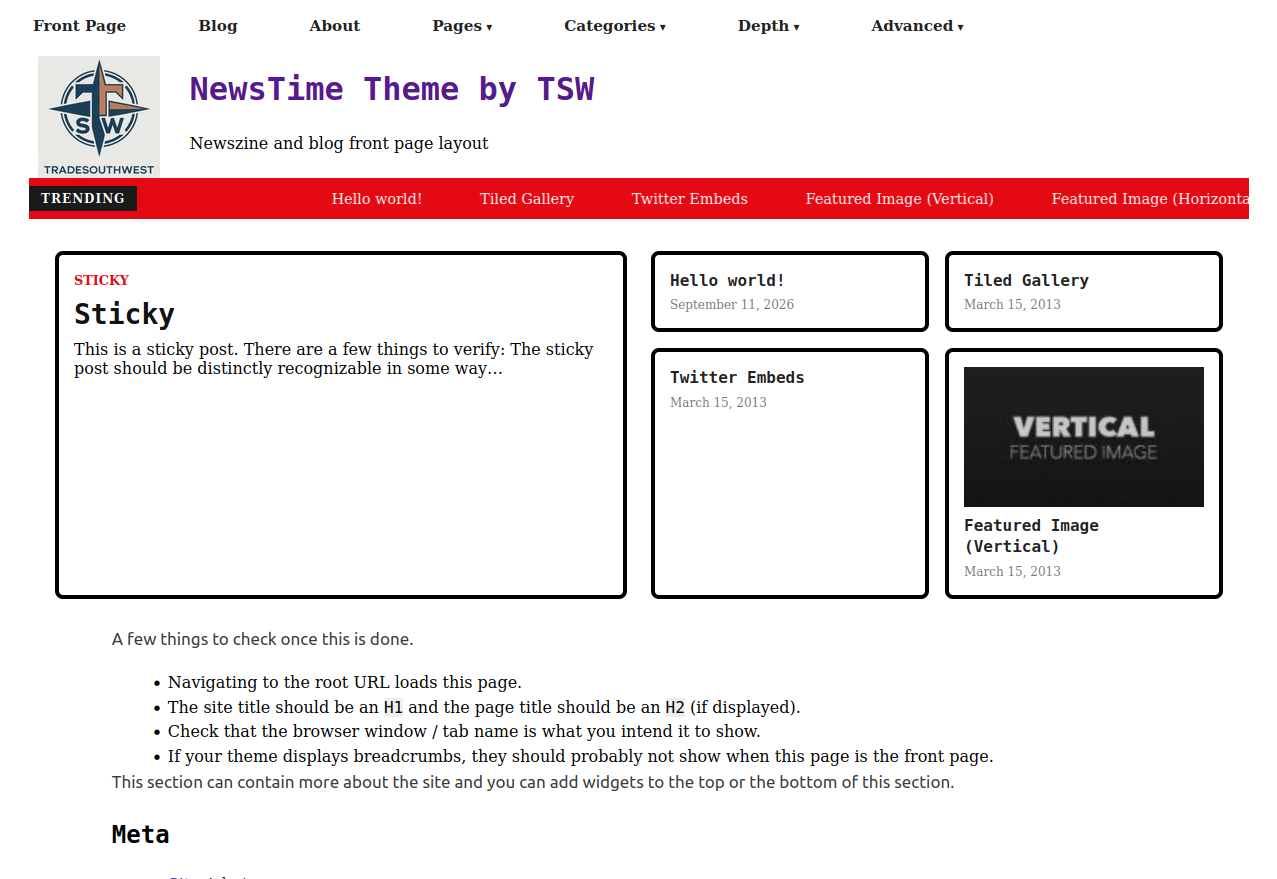
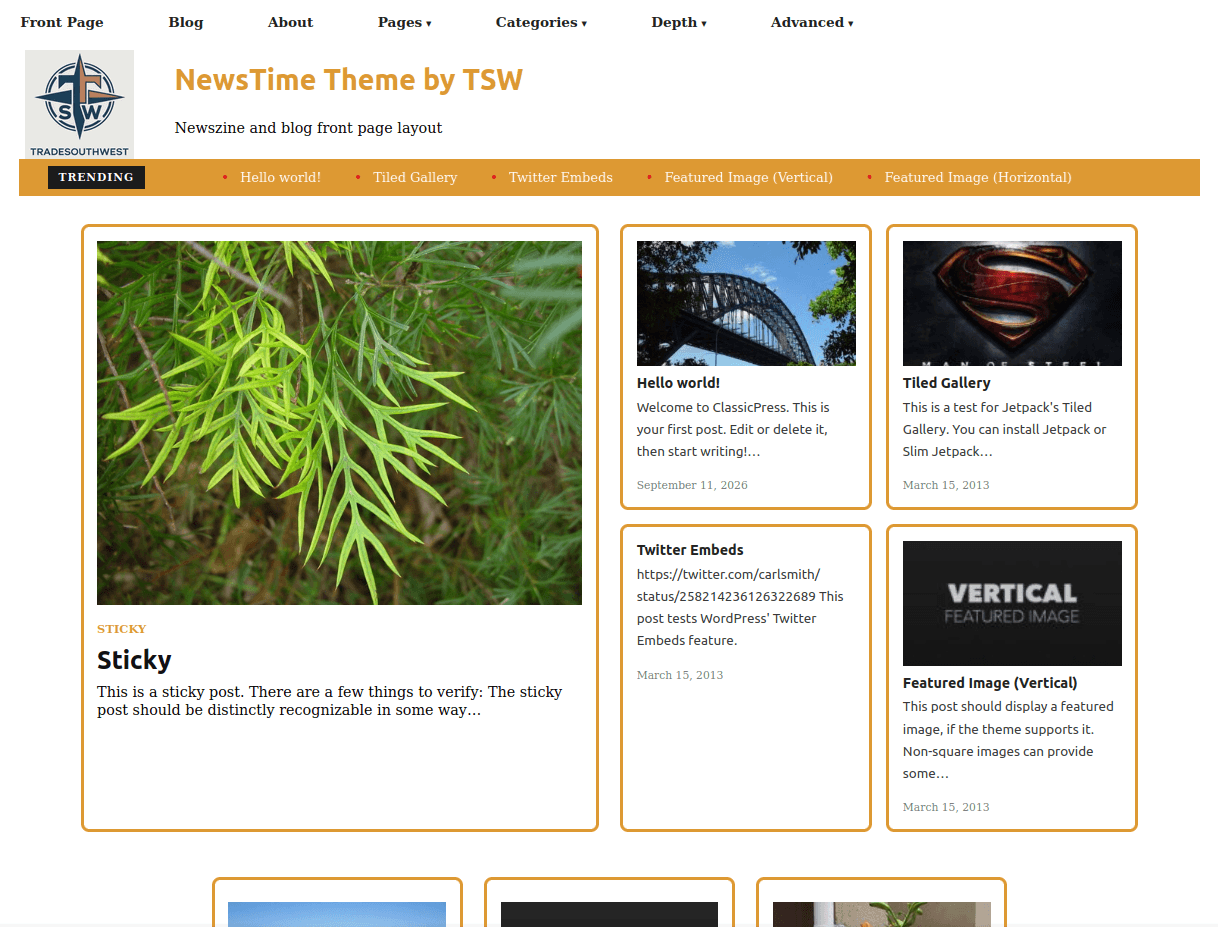
add customizer section for instructions

diff --git a/style.css b/style.css
@@ -58,13 +58,13 @@ NewsTime is distributed under the terms of the GNU GPL
     overflow-wrap: break-word;
     line-height: 1.8;
     margin-bottom: 1rem;
-    font-family: ui-monospace, 'Cascadia Code', 'Source Code Pro', Menlo, Consolas, 'DejaVu Sans Mono', monospace, monospace;
+    font-family:  Seravek, 'Gill Sans Nova', Ubuntu, Calibri, 'DejaVu Sans', source-sans-pro, sans-serif;
   }
   
   p, dl {
     font-family: Seravek, 'Gill Sans Nova', Ubuntu, Calibri, 'DejaVu Sans', source-sans-pro, sans-serif;
     font-weight: normal;
-    font-size: 17px;
+    font-size: 15px;
     line-height: 1.648;
     margin-bottom: 1em;
     color: #393a3b;
@@ -163,12 +163,11 @@ NewsTime is distributed under the terms of the GNU GPL
      2.0 - Layout & Structure
      ========================================================================== */
 /* Layout Base Containers */
-.newstime-front-page .container {
+.newstime-front-page .container{
 	max-width: 1200px;
 	margin: 0 auto;
 	padding: 0 1rem;
 }
-
 .page-header {
   display: block; 
   height: 180px;
@@ -225,6 +224,9 @@ NewsTime is distributed under the terms of the GNU GPL
   color: black;
 }
 
+.sticky {
+  font-family: sans-serif;
+}
 /* --------------------------------------------------------------------------
    1. News Ticker / Marquee
    -------------------------------------------------------------------------- */

diff --git a/includes/customizer.php b/includes/customizer.php
@@ -30,3 +30,65 @@ function newstime_customize_colors( $wp_customize ) {
 	);
 }
 add_action( 'customize_register', 'newstime_customize_colors' );
+
+/**
+ * Add Newstime Instructions and Plugin Recommendation to the WordPress/ClassicPress Customizer.
+ *
+ * @param WP_Customize_Manager $wp_customize Customizer object.
+ */
+function newstime_customize_register_instructions( $wp_customize ) {
+
+    // 1. Add the "Newstime Instructions" Panel/Section
+    $wp_customize->add_section( 'newstime_instructions_section', array(
+        'title'       => __( 'Newstime Instructions', 'newstime' ),
+        'priority'    => 20, // Positions near the top of the Customizer menu
+        'description' => __( 'Tips and recommended plugins for getting the most out of the Newstime theme.', 'newstime' ),
+    ) );
+
+    // 2. Add a dummy setting required by the Customizer API for output control
+    $wp_customize->add_setting( 'newstime_plugin_promo_notice', array(
+        'sanitize_callback' => 'wp_filter_nohtml_kses',
+    ) );
+
+    // 3. Define HTML content to present the plugin recommendation
+    $promo_html  = '<div style="background: #fff; border-left: 4px solid #0073aa; padding: 10px 12px; margin-bottom: 12px; box-shadow: 0 1px 1px rgba(0,0,0,0.04);">';
+    $promo_html .= '<h4 style="margin: 0 0 8px; font-size: 14px;">' . __( 'Recommended Plugin', 'newstime' ) . '</h4>';
+    $promo_html .= '<p style="margin: 0 0 10px; font-size: 13px; line-height: 1.4;">' . __( 'Enhance your front-page layout and custom post queries with the official <strong>Newstime Display Posts</strong> plugin.', 'newstime' ) . '</p>';
+    $promo_html .= '<p style="margin: 0 0 6px;"><a href="https://directory.classicpress.net/plugins/newstime-display-posts/" target="_blank" rel="noopener noreferrer" class="button button-primary">' . __( 'Get Newstime Display Posts', 'newstime' ) . ' &rarr;</a></p>';
+    $promo_html .= '</div>';
+
+    // 4. Inject static HTML content using WP_Customize_Control
+    $wp_customize->add_control( new WP_Customize_Control(
+        $wp_customize,
+        'newstime_plugin_promo_notice_control',
+        array(
+            'section'     => 'newstime_instructions_section',
+            'settings'    => 'newstime_plugin_promo_notice',
+            'type'        => 'hidden',
+            'description' => $promo_html,
+        )
+    ) );
+
+    // 5. Shortcode Reference List
+    $wp_customize->add_setting( 'newstime_shortcode_guide_notice', array(
+        'sanitize_callback' => 'wp_filter_nohtml_kses',
+    ) );
+
+    $guide_html  = '<div style="margin-top: 15px;">';
+    $guide_html .= '<h4 style="margin: 0 0 6px; font-size: 13px;">' . __( 'Quick Shortcode Usage', 'newstime' ) . '</h4>';
+    $guide_html .= '<p style="font-size: 12px; color: #666; margin-0 0 6px;">' . __( 'Once activated, display post grids anywhere using:', 'newstime' ) . '</p>';
+    $guide_html .= '<code style="display: block; padding: 6px; background: #f0f0f1; font-size: 11px;">[newstime_display_posts posts_per_page="6"]</code>';
+    $guide_html .= '</div>';
+
+    $wp_customize->add_control( new WP_Customize_Control(
+        $wp_customize,
+        'newstime_shortcode_guide_control',
+        array(
+            'section'     => 'newstime_instructions_section',
+            'settings'    => 'newstime_shortcode_guide_notice',
+            'type'        => 'hidden',
+            'description' => $guide_html,
+        )
+    ) );
+}
+add_action( 'customize_register', 'newstime_customize_register_instructions' );

diff --git a/functions.php b/functions.php
@@ -331,6 +331,38 @@ function newstime_breadcrumbs_nav() {
 	echo '</nav>';
 }
 
+/**
+ * Trims post excerpt or content to a strict word count.
+ *
+ * @param int $word_limit Maximum number of words to display.
+ * @return string Trimmed excerpt with trailing ellipsis if truncated.
+ */
+function newstime_get_custom_excerpt( $word_limit = 15 ) {
+    $post = get_post();
+
+    if ( ! $post ) {
+        return '';
+    }
+
+    // Use explicit excerpt if available; fall back to post content
+    $text = ! empty( $post->post_excerpt ) ? $post->post_excerpt : $post->post_content;
+
+    // Clean up shortcodes, HTML tags, and non-breaking spaces
+    $text = strip_shortcodes( $text );
+    $text = wp_strip_all_tags( $text );
+    $text = str_replace( '&nbsp;', ' ', $text );
+
+    // Split words cleanly while preserving multibyte string handling
+    $words = preg_split( '/\s+/', trim( $text ), -1, PREG_SPLIT_NO_EMPTY );
+
+    if ( count( $words ) > $word_limit ) {
+        $words = array_slice( $words, 0, $word_limit );
+        return implode( ' ', $words ) . '&hellip;';
+    }
+
+    return implode( ' ', $words );
+}
+
 /** 
  * Customizer
  * suport footer background & text color
@@ -340,10 +372,13 @@ function newstime_breadcrumbs_nav() {
 
 /* Adding files here to apply to the following functions below */
 require get_template_directory() . '/includes/customizer.php';
+
 /**
  * Inject customizer dynamic inline styles into wp_head.
  */
-function newstime_customizer_css() {
+if ( !function_exists( 'newstime_customizer_css_tohead' ) ) :
+
+function newstime_customizer_css_tohead() {
 	$accent_color = get_theme_mod( 'primary_accent_color', '#e50914' );
 
 	// Don't print output if using default color
@@ -383,7 +418,8 @@ function newstime_customizer_css() {
 				color: <?php echo esc_html( $sanitized_color ); ?>;
 			}
 
-            .featured-main-card, .sub-feature-card {
+            .featured-main-card, .sub-feature-card,
+			.shortcode-post-card  {
                 border-color: <?php echo esc_html( $sanitized_color ); ?>;
             }
 
@@ -396,4 +432,6 @@ function newstime_customizer_css() {
 		<?php
 	endif;
 }
-add_action( 'wp_head', 'newstime_customizer_css' );
+add_action( 'wp_head', 'newstime_customizer_css_tohead' );
+endif;
+?>

diff --git a/front-page.php b/front-page.php
@@ -125,7 +125,12 @@ get_header();
 									<h3 class="card-title">
 										<a href="<?php the_permalink(); ?>"><?php echo esc_html( get_the_title() ); ?></a>
 									</h3>
-									<span class="card-date"><?php echo esc_html( get_the_date() ); ?></span>
+									<div class="entry-excerpt">
+                    					<p><?php echo esc_html( newstime_get_custom_excerpt( 15 ) ); ?></p>
+                					</div>
+										<span class="card-date">
+											<?php echo esc_html( get_the_date() ); ?>
+										</span>
 								</div>
 							</article>
 						
@@ -139,6 +144,7 @@ get_header();
 			</div>
 		</div>
 	</section>
+	
 		<section class="front-page-inner-content">
 			
 			<?php the_content(); ?>
